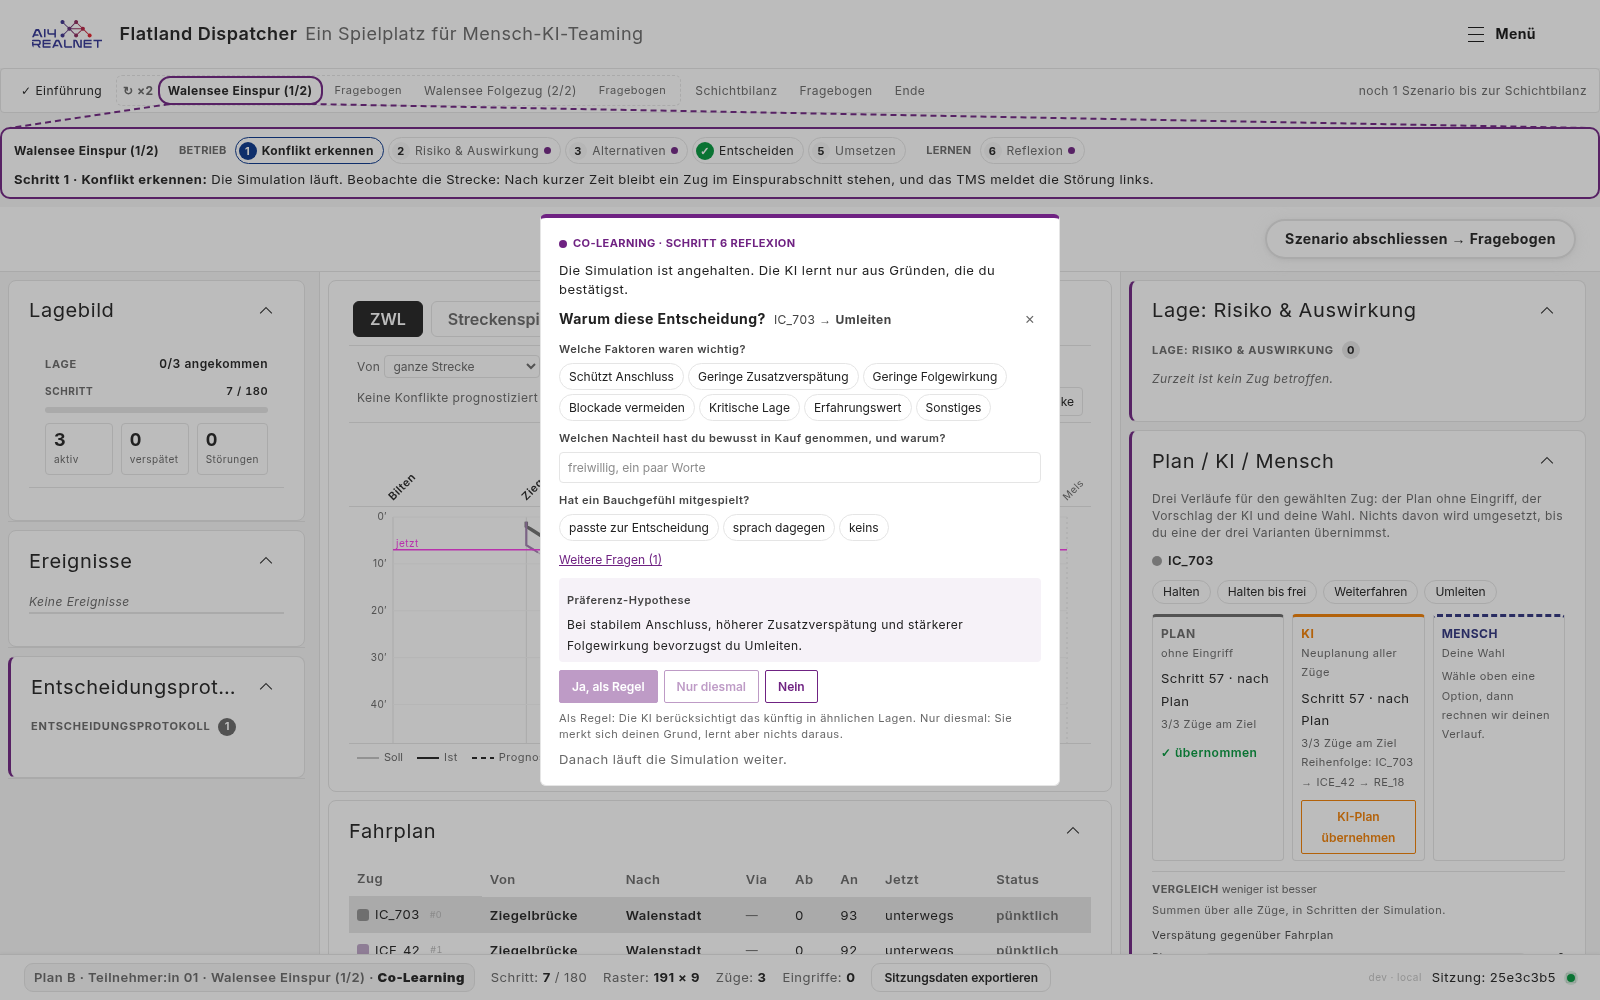
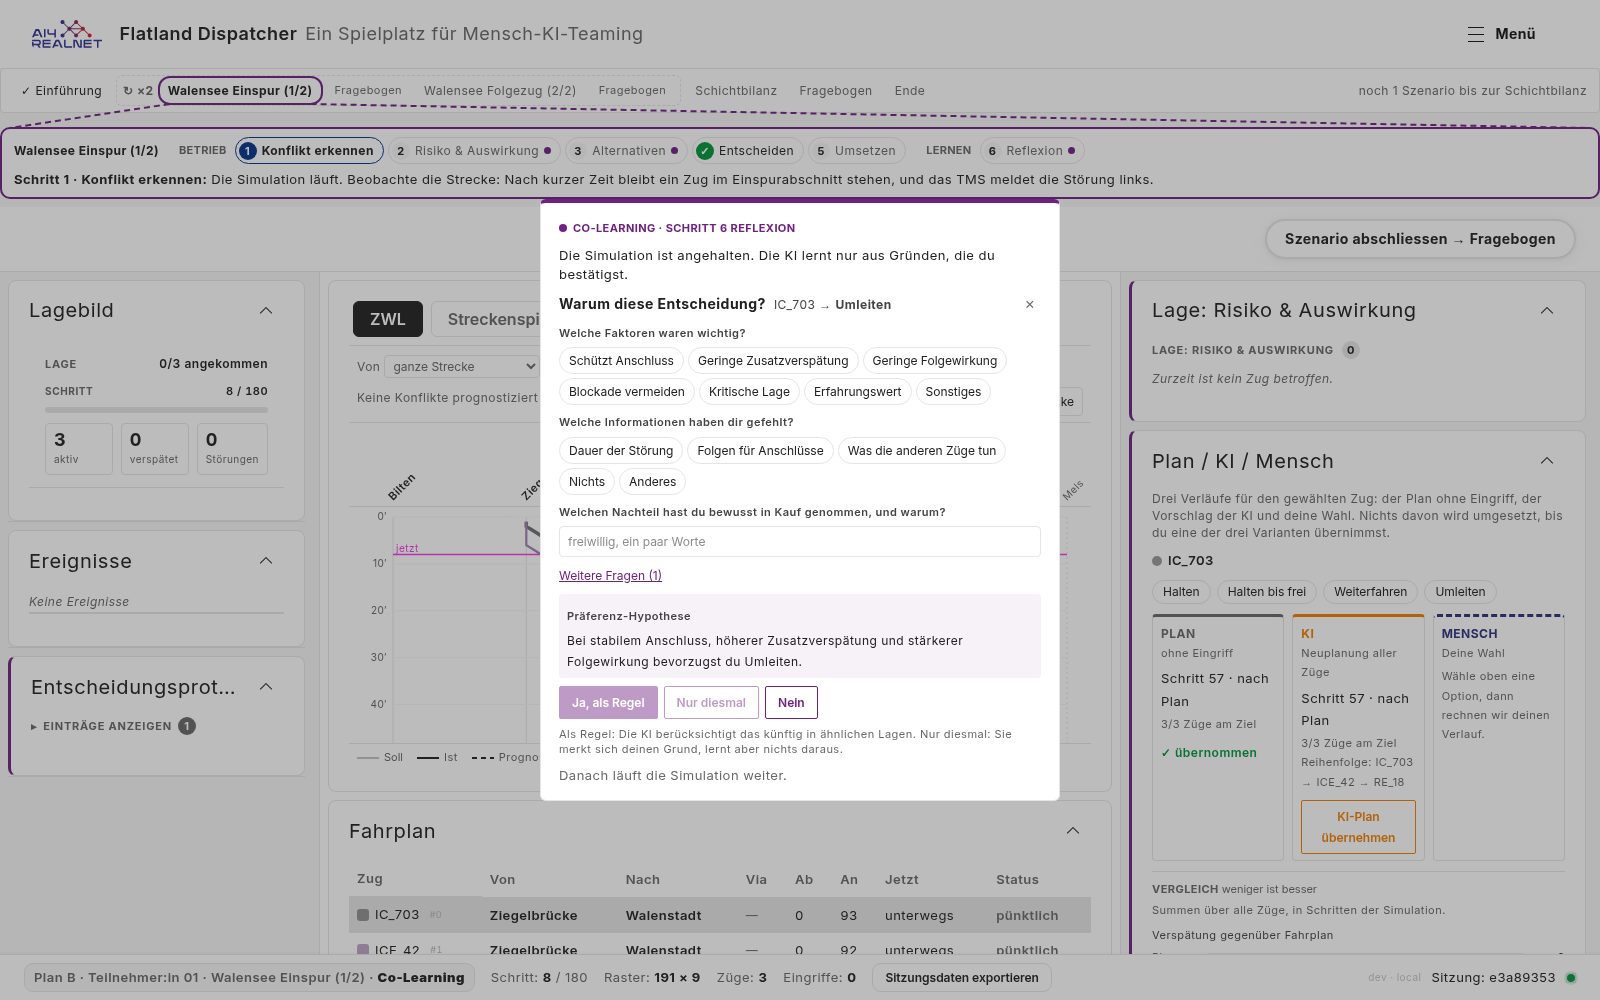
docs(plans): align the #160 plan with the decision log toggle from #150.
Rebased onto main 1e33088: #150's toggle opens the log's entries, so the
plan reuses it and only adds the open count. Before screenshots retaken.

diff --git a/docs/plans/reflection-inline.md b/docs/plans/reflection-inline.md
@@ -1,6 +1,9 @@
 # Reflection in the decision panel, without pausing the run (#160)
 
-> **Status:** plan, 2026-11-05; not built yet. Based on `main` 333013c.
+> **Status:** plan, 2026-11-05; not built yet. Based on `main` 1e33088,
+> which has #150 ([PR #172](https://github.com/flatland-association/flatland-ui-hub/pull/172)):
+> its decision log toggle covers what this plan first designed for opening
+> the log (D4).
 > Q1 and Q5 decided 2026-11-05, Q3 with an open remainder; Q2 and Q4 open (§8).
 > Issue [#160](https://github.com/flatland-association/flatland-ui-hub/issues/160)
 > ("Reflexions Overlay soll Szenario nicht pausieren", @CleverManu), with the
@@ -33,8 +36,9 @@
   one waits (D3).
 - The participant keeps control of the layout: nothing expands or moves a
   panel on its own (Q3, D10).
-- Plan B removes things through `PLAN_B_UI`; this plan adds nothing to it and
-  only makes the existing `collapsedByDefault` a default again (Q1, D4).
+- Plan B removes things through `PLAN_B_UI`; this plan adds nothing to it.
+  The log is opened with #150's toggle; this plan only adds the open count
+  next to it (Q1, D4).
 
 Reused concepts:
 
@@ -43,6 +47,7 @@ Reused concepts:
 | The reflection's questions | `ReflectionPromptComponent`, unchanged in its questions | a new inline form |
 | Which decision a reflection belongs to | `PendingRationale.decisionSeq` = `DecisionLogEntry.seq` | a new reflection id |
 | Showing that a reflection is missing | the toolbar's `role="alert"` pattern of `store.runError()` | a toast or a new notification type |
+| Opening the log's entries under Plan B | #150's toggle in the log's head, "Einträge anzeigen (n)" / "Einträge ausblenden" (`log.showEntries` / `log.hideEntries`) | a toggle of our own in the head |
 | Recording that the log was opened | the existing `ui_state` key `panel.decision-log.collapsed` (`UiStateRegistry`) | a new interaction event |
 | Recording when a reflection was answered | optional fields on `DecisionLogEntry`, which `mergeDecisions` carries into the session record as they are | a new event type |
 | Which tours require reflections | the existing `TourBriefing.reasonDialog` flag | a new flag or a UiConfig id |
@@ -78,7 +83,7 @@ Reused concepts:
 | `SessionStore` (rationale part) | Holds the decisions that wait for a reason and records the reason on the decision. Not where the reason is asked. | 🟨 modified: keeps every open reflection, not one; reopens one by decision; stamps when it was answered. |
 | `ProposalCompareComponent` | Compares plan, AI and own choice for a train and applies one. Not where past decisions are listed (the decision log). | 🟨 modified: new title; shows the open reflection at its top in a tour that asks for reasons. |
 | `ReflectionPromptComponent` | Asks the reflection for the shown decision. Not where it is placed. | 🟨 modified: names the course actually taken (§2, related bug). |
-| `DecisionLogPanelComponent` | Lists the run's decisions. Not where a reflection is answered. | 🟨 modified: entries can be opened under Plan B; open reflections are marked and can be reopened; highlighted when finishing is refused. |
+| `DecisionLogPanelComponent` | Lists the run's decisions. Not where a reflection is answered. | 🟨 modified: open reflections are marked, counted next to the toggle, and can be reopened; highlighted when finishing is refused. |
 | `TourReasonDialogComponent` | The modal reflection that pauses the run. | 🟥 removed. |
 | `TourGuideComponent` | Leads through the tour's steps. Not where a scenario is finished in an experiment run (the toolbar). | 🟨 modified: «Reflexion öffnen» reopens the newest open reflection, now in the panel; «Schicht beenden» is refused while reflections are open. |
 | `AppComponent.finishDemoMode` / `ToolbarComponent` | Finishes a scenario or tour leg from the toolbar. Not where the reflection is asked. | 🟨 modified: refuses while reflections are open, and says so under the button. |
@@ -139,7 +144,7 @@ suggestion, a choice in the decision panel).
 
 ### 1.4 New patterns
 
-Compared with `main` 333013c; the reused concepts are listed under the design principles.
+Compared with `main` 1e33088; the reused concepts are listed under the design principles.
 
 | New | Reuses | Defined in |
 |---|---|---|
@@ -167,13 +172,13 @@ gains two optional fields, which older readers ignore. Behaviour:
 - «Plan / KI / Mensch» reads «Handlungsvergleich» everywhere. The click id
   `panels.planAiHuman` stays; only the wording changes (AGENTS.md, click ids).
 
-## 2. Today (checked 2026-11-05 on `main`, 333013c)
+## 2. Today (checked 2026-11-05 on `main`, 1e33088)
 
 - `TourReasonDialogComponent` opens when the tour sets `reasonDialog`, the
   mode is not Director and `pendingRationale` is set
   (`tour-reason-dialog.component.ts:29-34`). An effect pauses a playing run
   on open and resumes it on close, unless the shift review is open (`:39-54`).
-  Measured on `plan-b-p01`, leg 1: the footer stays at «Schritt: 7 / 180»
+  Measured on `plan-b-p01`, leg 1: the footer stays at «Schritt: 8 / 180»
   while the dialog is open.
 - `reasonDialog` is set by three briefings: `co-learning-cost-benefit` (and
   its English twin), `colearning-experiment`, and `colearning-experiment-2x`,
@@ -190,12 +195,14 @@ gains two optional fields, which older readers ignore. Behaviour:
   «Reflexion öffnen» brings back (`:1335-1355`). The pause hides this: while
   the dialog is open, no second decision can be taken. Without the pause it
   can, so one slot would lose reflections.
-- **The decision log cannot be opened under Plan B.** `PLAN_B_UI` sets
-  `collapsedByDefault: ['widget.decision-log']`; the panel then shows only its
-  header and the count. `toggleCollapsed()`
-  (`decision-log-panel.component.ts:125`) exists and is tested, but no template
-  calls it, so "a default, not a lock" holds only in the spec. Checked in the
-  running app: a click on the header does nothing (picture 4).
+- **The decision log under Plan B** starts collapsed (`PLAN_B_UI`,
+  `collapsedByDefault: ['widget.decision-log']`). Since #150 its head is a
+  toggle, «▸ Einträge anzeigen (n)» / «▾ Einträge ausblenden»
+  (`dl-toggle`, click ids `log.showEntries` / `log.hideEntries`), which opens
+  every entry (`docs/plans/information-display.md` D1). #150 also hides the
+  log's «JSON exportieren» and «Leeren» under Plan B
+  (`widget.decision-log.actions`), so a participant cannot clear the decisions
+  that carry the reflections (picture 4).
 - Log entries show no reflection state; `DecisionLogEntry` holds `rationale`,
   `preferenceHypothesis`, `hypothesisResponse`, `reflection` once answered.
 - Finishing does not look at reflections. The toolbar's button and the
@@ -208,8 +215,9 @@ gains two optional fields, which older readers ignore. Behaviour:
   nothing.
 - «Plan / KI / Mensch» is the wording of `panels.planAiHuman` (de, en "Plan /
   AI / human", fr "Plan / IA / humain"), and appears in text in
-  `de.json` (`handoff`, `compareTitle`), in eight hints of
-  `tour-briefings.ts`, and in comments and internal labels elsewhere.
+  `de.json` (`handoff`, `compareTitle`), in four texts of
+  `tour-briefings.ts` (hints and briefing lines), and in comments and internal
+  labels elsewhere.
 - **Related bug:** after «Plan behalten» the reflection's header and
   hypothesis say "Umleiten". `ReflectionPromptComponent.strategyLabel()` and
   `hypothesis` call `strategyLabelForAction(p.action, t)` without the logged
@@ -220,14 +228,15 @@ gains two optional fields, which older readers ignore. Behaviour:
 ### Pictures (before, `plan-b-p01`, leg 1, Plan B deployment config)
 
 Taken with `scripts/docshots-reflection-inline.mjs` on a production build of
-`main` 333013c: the first train in the Fahrplan, «Plan behalten».
+`main` 1e33088: the first train in the Fahrplan, «Plan behalten». Retaken
+after the rebase onto #150; picture 4 changed with it.
 
 | # | Element | Before |
 |---|---|---|
-| 1 | Working screen with the reflection dialog; run paused at step 7 | ![before](reflection-inline/before-1-dialog.png) |
+| 1 | Working screen with the reflection dialog; run paused at step 8 | ![before](reflection-inline/before-1-dialog.png) |
 | 2 | The dialog: the first paragraph and the last sentence that go (requirements 5, 6), and "Umleiten" for a kept plan | <img src="reflection-inline/before-2-dialog-text.png" width="420"> |
 | 3 | The decision panel and its title (requirements 1, 2) | <img src="reflection-inline/before-3-panel.png" width="420"> |
-| 4 | The decision log after one decision and a click on its header: only the count (requirements 3, 4) | <img src="reflection-inline/before-4-log.png" width="320"> |
+| 4 | The decision log after one decision, opened with #150's toggle: no mark for the missing reflection (requirements 3, 4) | <img src="reflection-inline/before-4-log.png" width="320"> |
 | 5 | The guide after closing the reflection: «Reflexion öffnen» | ![before](reflection-inline/before-5-guide.png) |
 | 6 | The finish button, with the reflection unanswered: it finishes (requirement 4) | ![before](reflection-inline/before-6-finish.png) |
 
@@ -240,7 +249,7 @@ Taken with `scripts/docshots-reflection-inline.mjs` on a production build of
 | D1 | 💡 The dialog is removed for every `reasonDialog` tour; the reflection shows at the top of the decision panel instead. The flag keeps its name and now means "this tour asks for a reason after each decision, in the decision panel, and before finishing" | Requirement 7; renaming the flag touches every briefing for no behaviour |
 | D2 | 💡 Nothing pauses or resumes the run for a reflection | Requirement 1 |
 | D3 | 💡 The store keeps every open reflection, keyed by `decisionSeq`, in decision order. A new decision is shown at once if no reflection is shown; otherwise it waits and is shown when the shown one is answered | Without the pause, decisions overlap (§2); replacing the shown reflection would drop what the participant is typing |
-| D4 | ✅ The decision log's header toggles its entries, so `collapsedByDefault` is a default again; the header shows the count of open reflections (decided 2026-11-05, Q1) | Requirement 3 needs the entries; the collapse stays the Plan B default, and all entries are shown when opened, not only the open ones |
+| D4 | ✅ The log stays collapsed by default under Plan B and is opened with #150's toggle, which shows all entries; this plan adds the count of open reflections next to the toggle (decided 2026-11-05, Q1; the toggle came with #150) | Requirement 3 needs the entries, not only the open ones |
 | D5 | ✅ An entry with an open reflection carries «Reflexion nachtragen», which shows it in the decision panel; an answered one a ✓ (decided 2026-11-05 with Q1) | Requirement 3 |
 | D6 | 💡 Finishing with open reflections is refused: the run goes on, a message under the finish button names the count, and the log opens with the open entries highlighted | Requirement 4 |
 | D7 | 💡 `reflectedAt` and `reflectedAtStep` are stamped on the decision when it is answered | Without the pause, whether a reflection came at once or later is part of the study data |
@@ -300,10 +309,9 @@ Taken with `scripts/docshots-reflection-inline.mjs` on a production build of
 
 ### 4.3 Decision log (requirement 3; D4, D5)
 
-- In the embedded header (`.dl-panel-head--embedded`), title and count become
-  a button calling `toggleCollapsed()`, with `aria-expanded`; click id
-  `log.toggleEntries`. The open badge and the optional button below sit next
-  to it, not inside it (no button in a button).
+- The entries are opened with #150's toggle (`dl-toggle` in the embedded
+  head), unchanged. The open badge and the optional button below sit next to
+  it in `.dl-panel-head--embedded`, not inside it (no button in a button).
 - In `reasonDialog` tours, each entry whose `seq` is open shows a small button
   «Reflexion nachtragen» (click id `log.reflectionOpen`) calling
   `store.reopenRationale(e.seq)`; answered entries show ✓ with the title
@@ -453,13 +461,13 @@ Nothing is removed from the record.
 | `frontend/src/app/features/proposal-compare/proposal-compare.component.ts` / `.html` / `.scss` | the reflection section |
 | `frontend/src/app/features/reflection-prompt/reflection-prompt.component.ts` / `.html` | logged label; `role` |
 | `frontend/src/app/features/reflection-prompt/reflection-prompt.component.spec.ts` | label after «Plan behalten» |
-| `frontend/src/app/features/decision-log/decision-log-panel.component.ts` / `.html` / `.scss` / `.spec.ts` | header toggle, open/answered marks, highlight |
+| `frontend/src/app/features/decision-log/decision-log-panel.component.ts` / `.html` / `.scss` / `.spec.ts` | open/answered marks, open count next to the toggle, highlight |
 | `frontend/src/app/features/tour-guide/tour-guide.component.ts` / `.html` / `.spec.ts` | `canReflect` from the list; «Schicht beenden» gated |
 | `frontend/src/app/features/toolbar/toolbar.component.html` / `.scss` / `.spec.ts` | the refusal message |
 | `frontend/src/app/app.component.ts` / `.html` | the gate in `finishDemoMode()`; the dialog removed |
 | `frontend/src/app/core/demo/tour-briefings.ts` | `reasonDialog` doc comment; hints with the new title |
 | `frontend/src/app/core/widgets/widget-catalog.ts` | the panel's name |
-| `frontend/public/i18n/{de,en,fr}.json` | new title; new keys `log.toggleEntries`, `log.reflectionOpen`, `log.reflectionDone`, `log.openCount`, `toolbar.reflectionsMissing` (and `log.showOpenReflections` if Q3's remainder is built); `tourUi.reason.lead`/`.note` deleted |
+| `frontend/public/i18n/{de,en,fr}.json` | new title; new keys `log.reflectionOpen`, `log.reflectionDone`, `log.openCount`, `toolbar.reflectionsMissing` (and `log.showOpenReflections` if Q3's remainder is built); `tourUi.reason.lead`/`.note` deleted |
 | `frontend/src/app/core/session.store.spec.ts` | a second decision waits while one is shown; dismiss keeps it open; submit stamps and shows the next; the refusal; the resets |
 | `docs/reference/interaction-modes-brief.md`, `docs/reference/panel-mode-matrix.md` | where the Co-Learning reflection is asked |
 
@@ -489,7 +497,7 @@ Nothing is removed from the record.
 | ID | Step | Needs |
 |---|---|---|
 | S1 | Store: open reflections, reopen by decision, stamps, refusal state, with specs | - |
-| S2 | Decision log: header toggle, open/answered marks, reopen | S1 |
+| S2 | Decision log: open/answered marks, open count, reopen | S1 |
 | S3 | Decision panel: inline reflection, dialog removed, logged label fix, texts | S1 |
 | S4 | Finish gates (toolbar, guide), message, highlight; «Offene Reflexionen anzeigen» if Q3's remainder is decided yes | S1, S2, Q2, Q4 |
 | S5 | Rename to «Handlungsvergleich» (de, en, fr, briefings, catalog) | - |
@@ -533,7 +541,8 @@ Each step passes the CI checks on its own.
   Proposal: a), one rule for all `reasonDialog` tours (requirement 7).
 - ✅ ~~**(Q1) Plan B's decision log: open or collapsed by default?**~~
   **Decided 2026-11-05:** collapsed by default with all entries reachable, a
-  header that opens them and a count of open reflections (D4).
+  header that opens them and a count of open reflections (D4). The header
+  toggle came with #150; the count is this plan's.
 - 💡 **(Q3) What if the decision panel is collapsed when a reflection
   arrives?** **Decided 2026-11-05:** it stays collapsed (D10). Open remainder:
   a button «Offene Reflexionen anzeigen» next to the log's open count, which
